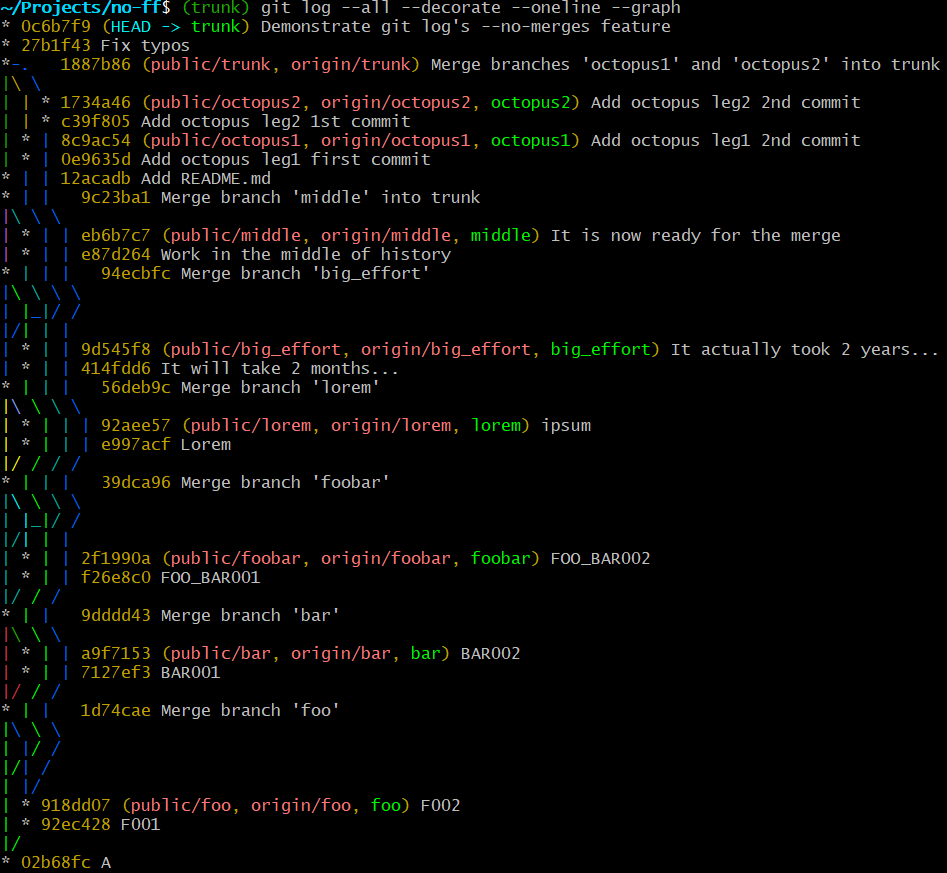
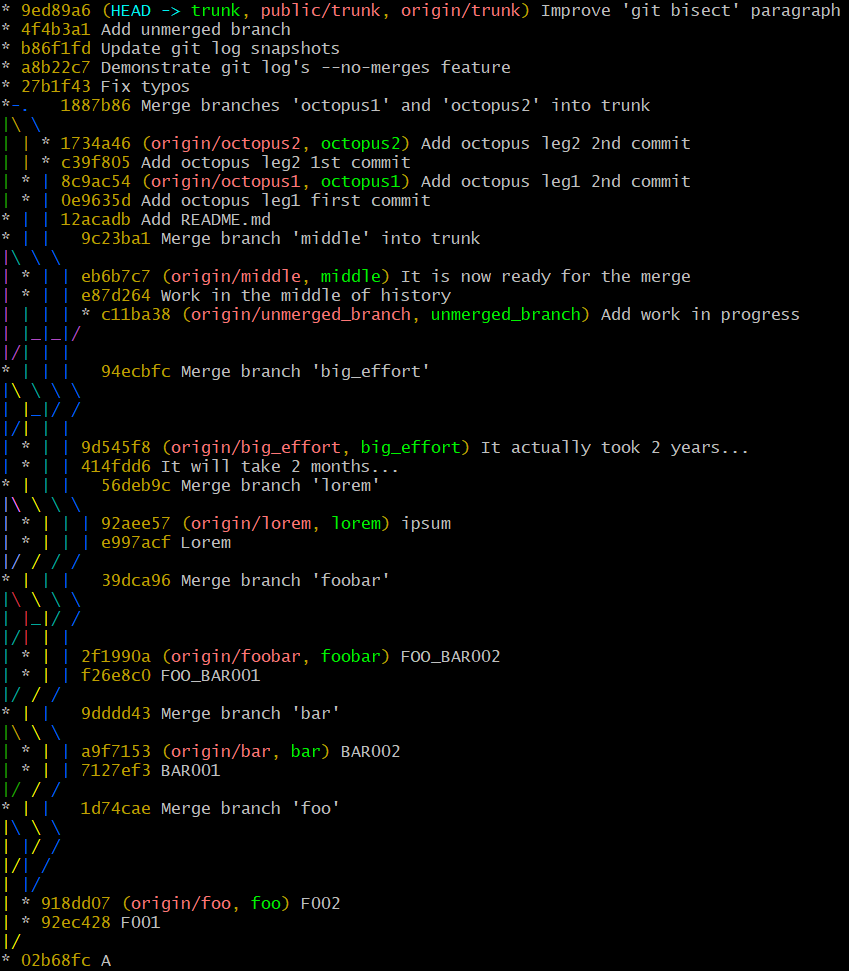
Add unmerged branch

diff --git a/README.md b/README.md
@@ -31,24 +31,26 @@ It is also possible to print a flat history:
 
 ```bash
 ~/Projects/no-ff$ (trunk) git log --oneline --no-merges
-0c6b7f9 (HEAD -> trunk) Demonstrate git log --no-merges feature
+2e83855 (HEAD -> trunk) Add unmerged branch diagram
+b86f1fd (origin/trunk) Update git log snapshots
+a8b22c7 Demonstrate git log --no-merges feature
 27b1f43 Fix typos
-1734a46 (public/octopus2, origin/octopus2, octopus2) Add octopus leg2 2nd commit
+1734a46 (origin/octopus2, octopus2) Add octopus leg2 2nd commit
 c39f805 Add octopus leg2 1st commit
-8c9ac54 (public/octopus1, origin/octopus1, octopus1) Add octopus leg1 2nd commit
+8c9ac54 (origin/octopus1, octopus1) Add octopus leg1 2nd commit
 0e9635d Add octopus leg1 first commit
 12acadb Add README.md
-eb6b7c7 (public/middle, origin/middle, middle) It is now ready for the merge
+eb6b7c7 (origin/middle, middle) It is now ready for the merge
 e87d264 Work in the middle of history
-9d545f8 (public/big_effort, origin/big_effort, big_effort) It actually took 2 years...
+9d545f8 (origin/big_effort, big_effort) It actually took 2 years...
 414fdd6 It will take 2 months...
-92aee57 (public/lorem, origin/lorem, lorem) ipsum
+92aee57 (origin/lorem, lorem) ipsum
 e997acf Lorem
-2f1990a (public/foobar, origin/foobar, foobar) FOO_BAR002
+2f1990a (origin/foobar, foobar) FOO_BAR002
 f26e8c0 FOO_BAR001
-a9f7153 (public/bar, origin/bar, bar) BAR002
+a9f7153 (origin/bar, bar) BAR002
 7127ef3 BAR001
-918dd07 (public/foo, origin/foo, foo) F002
+918dd07 (origin/foo, foo) F002
 92ec428 F001
 02b68fc A
 ```
@@ -60,17 +62,20 @@ development details you can use git log's `--first-parent` feature as presented
 below:
 
 ```bash
-* 0c6b7f9 (HEAD -> trunk) Demonstrate git log --no-merges feature
-* 27b1f43 Fix typos
-* 1887b86 (public/trunk, origin/trunk) Merge branches 'octopus1' and 'octopus2' into trunk
-* 12acadb Add README.md
-* 9c23ba1 Merge branch 'middle' into trunk
-* 94ecbfc Merge branch 'big_effort'
-* 56deb9c Merge branch 'lorem'
-* 39dca96 Merge branch 'foobar'
-* 9dddd43 Merge branch 'bar'
-* 1d74cae Merge branch 'foo'
-* 02b68fc A
+~/Projects/no-ff$ (trunk) git log --oneline --first-parent
+2e83855 (HEAD -> trunk) Add unmerged branch diagram
+b86f1fd (origin/trunk) Update git log snapshots
+a8b22c7 Demonstrate git log --no-merges feature
+27b1f43 Fix typos
+1887b86 Merge branches 'octopus1' and 'octopus2' into trunk
+12acadb Add README.md
+9c23ba1 Merge branch 'middle' into trunk
+94ecbfc Merge branch 'big_effort'
+56deb9c Merge branch 'lorem'
+39dca96 Merge branch 'foobar'
+9dddd43 Merge branch 'bar'
+1d74cae Merge branch 'foo'
+02b68fc A
 ```
 
 ## git bisect
